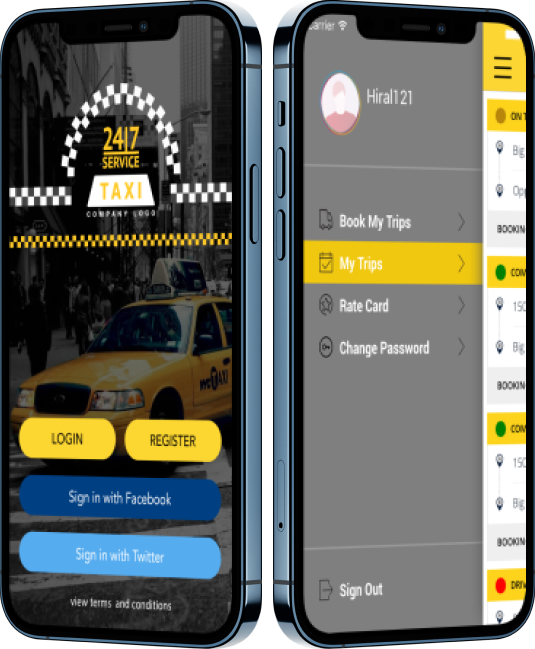
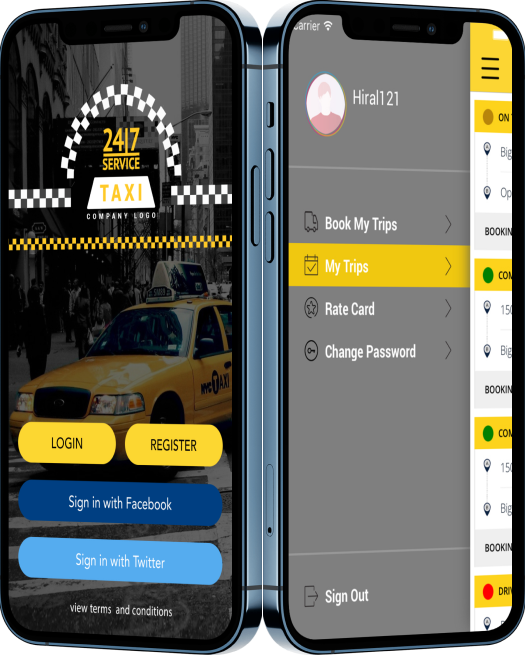
portfolio

diff --git a/src/pages/PortfolioPage.jsx b/src/pages/PortfolioPage.jsx
@@ -364,7 +364,7 @@ const PortfolioPage = (props) => {
             <img
               src={item.leftImage}
               alt=""
-              className="w-full midFM:ml-20"
+              className="w-full midFM:ml-8 midFM:scale-[1.2]"
             />
           </div>
           <div className="flex flex-col items-center justify-center gap-3 relative z-10">
